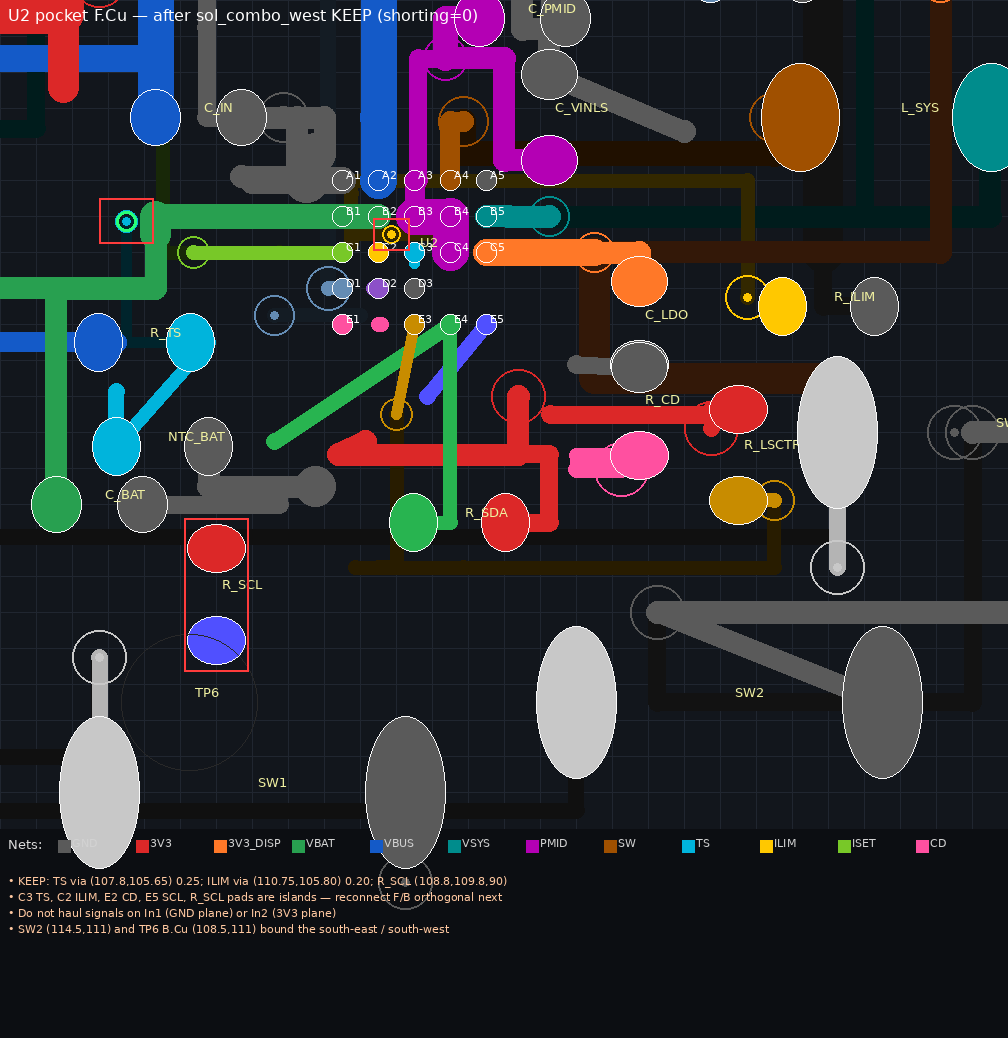
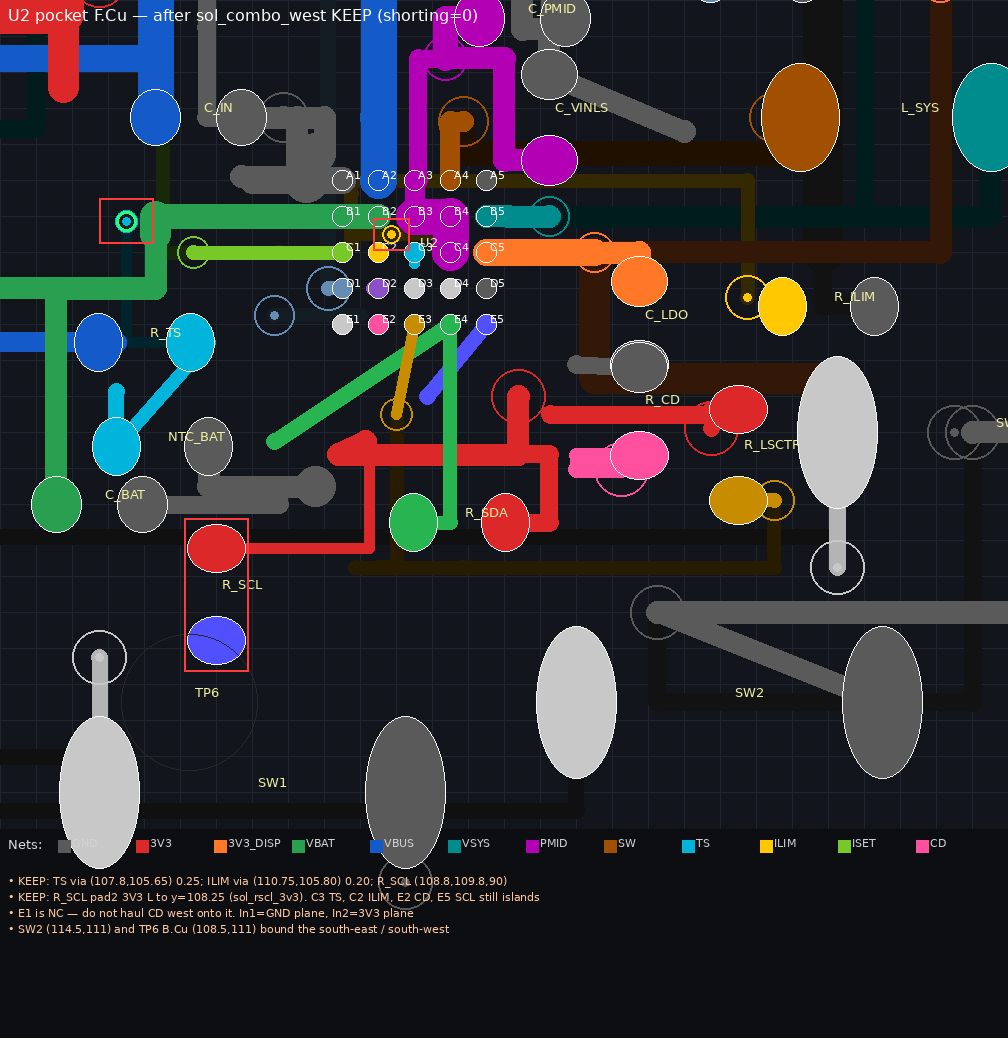
Let Sol browse the repo; KEEP R_SCL 3V3 reconnect.
gpt-6-sol opened the board itself. Its first CD haul onto NC E1 was rejected. The follow-up 3V3 L from R_SCL pad2 DRC-gates with shorting 0 and unc 16→15.

diff --git a/kicad/tools/_u2_pocket_render.py b/kicad/tools/_u2_pocket_render.py
@@ -38,8 +38,8 @@ NET_COLORS = {
 
 LATENTS = [
     "KEEP: TS via (107.8,105.65) 0.25; ILIM via (110.75,105.80) 0.20; R_SCL (108.8,109.8,90)",
-    "C3 TS, C2 ILIM, E2 CD, E5 SCL, R_SCL pads are islands — reconnect F/B orthogonal next",
-    "Do not haul signals on In1 (GND plane) or In2 (3V3 plane)",
+    "KEEP: R_SCL pad2 3V3 L to y=108.25 (sol_rscl_3v3). C3 TS, C2 ILIM, E2 CD, E5 SCL still islands",
+    "E1 is NC — do not haul CD west onto it. In1=GND plane, In2=3V3 plane",
     "SW2 (114.5,111) and TP6 B.Cu (108.5,111) bound the south-east / south-west",
 ]
 
@@ -124,18 +124,24 @@ def parse_footprints(text):
         rot = float(parts[2]) if len(parts) > 2 else 0.0
         pads = []
         for pad_m in re.finditer(
-            r'\(pad "([^"]+)" smd [^\n]*\n'
+            r'\(pad "([^"]+)" (?:smd|thru_hole) [^\n]*\n'
             r'\t\t\t\(at ([^)]+)\)\n'
             r'\t\t\t\(size ([^)]+)\)\n'
-            r'\t\t\t\(layers ([^\n]+)\)[\s\S]*?'
-            r'\(net (\d+) "([^"]+)"\)',
+            r'\t\t\t\(layers ([^\n]+)\)',
             body,
         ):
             pxy = pad_m.group(2).split()
             lx, ly = float(pxy[0]), float(pxy[1])
             sx, sy = map(float, pad_m.group(3).split()[:2])
+            tail = body[pad_m.end() : pad_m.end() + 360]
+            next_pad = tail.find("(pad ")
+            net_m = re.search(r'\(net \d+ "([^"]+)"\)', tail)
+            if net_m and (next_pad < 0 or net_m.start() < next_pad):
+                net_name = net_m.group(1)
+            else:
+                net_name = "NC"
             pads.append(
-                (pad_m.group(1), pad_m.group(6), lx, ly, sx, sy, pad_m.group(4))
+                (pad_m.group(1), net_name, lx, ly, sx, sy, pad_m.group(4))
             )
         fps.append({"ref": ref_m.group(1), "x": x, "y": y, "rot": rot, "pads": pads})
     return fps

diff --git a/kicad/tools/_sol_repo_explore.py b/kicad/tools/_sol_repo_explore.py
@@ -507,7 +507,12 @@ def compact_assistant(message: dict) -> dict:
     return kept
 
 
-def write_report(trace: list[dict], final_text: str, usage: dict | None) -> None:
+def write_report(
+    trace: list[dict],
+    final_text: str,
+    usage: dict | None,
+    report_path: Path = REPORT,
+) -> None:
     calls = []
     for row in trace:
         if row.get("role") == "tool":
@@ -526,7 +531,7 @@ def write_report(trace: list[dict], final_text: str, usage: dict | None) -> None
         + (final_text or "_(empty)_")
         + "\n"
     )
-    REPORT.write_text(body)
+    report_path.write_text(body)
     TRACE.write_text("\n".join(json.dumps(row, ensure_ascii=False) for row in trace) + "\n")
 
 
@@ -564,6 +569,12 @@ def main() -> None:
         {"role": "system", "content": SYSTEM},
         {"role": "user", "content": USER},
     ]
+    extra = Path(sys.argv[1]).read_text() if len(sys.argv) > 1 else ""
+    report_path = REPORT
+    if extra.strip():
+        messages.append({"role": "user", "content": extra.strip()})
+        report_path = ROOT / "kicad/reports/PASS_AG_SOL_EXPLORE_FOLLOWUP.md"
+        print("FOLLOWUP attached", len(extra), "chars", flush=True)
     final_text = ""
     usage = None
     TRACE.write_text("")
@@ -637,8 +648,8 @@ def main() -> None:
         break
     else:
         final_text = final_text or "(max rounds, no final text)"
-    write_report(explorer.trace, final_text, usage)
-    print("WROTE", REPORT)
+    write_report(explorer.trace, final_text, usage, report_path)
+    print("WROTE", report_path)
     print(final_text)
 
 

diff --git a/kicad/tools/_pass_ag_apply_keeps.py b/kicad/tools/_pass_ag_apply_keeps.py
@@ -9,7 +9,9 @@ from pathlib import Path
 
 sys.path.insert(0, str(Path(__file__).resolve().parent))
 from _pass_ag_sexpr_lib import (
+    add_segment,
     load,
+    netnum,
     save,
     set_fp_at,
     set_seg_ends,
@@ -60,9 +62,22 @@ if n_via == 1:
         raise SystemExit("sol_combo_west partial match")
     applied.append("sol_combo_west")
 
+has_rscl_3v3 = "(start 108.8 109.29)" in text or "(end 108.8 109.29)" in text
+if "(at 108.8 109.8 90)" in text and not has_rscl_3v3:
+    rail_3v3_net = netnum(text, "3V3")
+    text = add_segment(text, 108.8, 109.29, 110.5, 109.29, 0.12, "F.Cu", rail_3v3_net)
+    text = add_segment(text, 110.5, 109.29, 110.5, 108.25, 0.12, "F.Cu", rail_3v3_net)
+    text = add_segment(text, 110.5, 108.25, 110.16, 108.25, 0.12, "F.Cu", rail_3v3_net)
+    applied.append("sol_rscl_3v3")
+    has_rscl_3v3 = True
+
 if not applied:
     if "(at 110.75 105.8)" in text and "(at 108.8 109.8 90)" in text:
-        print("Pass-AG keeps already present: iset_via_west, ts_via_corner, sol_combo_west")
+        extra = ", sol_rscl_3v3" if has_rscl_3v3 else ""
+        print(
+            "Pass-AG keeps already present: "
+            f"iset_via_west, ts_via_corner, sol_combo_west{extra}"
+        )
         sys.exit(0)
     raise SystemExit("no Pass-AG KEEP source vias found")
 

diff --git a/kicad/tools/_pass_ag_try.py b/kicad/tools/_pass_ag_try.py
@@ -334,6 +334,15 @@ elif edit_name == "ilim_via_out":
     text = add_segment(text, 109.15, 105.85, 109.15, 105.35, 0.12, "B.Cu", ilim_net)
     text = add_segment(text, 109.15, 105.35, 110.3, 105.35, 0.12, "B.Cu", ilim_net)
 
+elif edit_name == "sol_rscl_3v3":
+    # gpt-6-sol repo-explore follow-up KEEP: reconnect R_SCL pad2 (3V3)
+    # at (108.80,109.29) to the existing 3V3 island at y=108.25.
+    # Orthogonal F.Cu only. Combined CD/E1 KEEP was rejected (E1 is NC).
+    text = add_segment(text, 108.8, 109.29, 110.5, 109.29, 0.12, "F.Cu", rail_3v3_net)
+    text = add_segment(text, 110.5, 109.29, 110.5, 108.25, 0.12, "F.Cu", rail_3v3_net)
+    text = add_segment(text, 110.5, 108.25, 110.16, 108.25, 0.12, "F.Cu", rail_3v3_net)
+    print("sol_rscl_3v3 added 3 F.Cu 3V3 segments")
+
 else:
     raise SystemExit(f"unknown edit {edit_name}")
 

diff --git a/kicad/reports/PASS_AG_SOL_EXPLORE.md b/kicad/reports/PASS_AG_SOL_EXPLORE.md
@@ -1,0 +1,101 @@
+# gpt-6-sol repo explorer (2026-09-24)
+
+Sol used workspace tools. API key is not in the repo. Coordinates below are **Sol's**, not yet a DRC KEEP unless a later section says KEEP.
+
+## Tool calls
+
+- `list_dir` `{"path": "."}`
+- `glob` `{"pattern": "**/*"}`
+- `read_file` `{"path": "cursor.md"}`
+- `read_file` `{"path": "kicad/LIVE_LOG.txt"}`
+- `read_file` `{"path": "kicad/reports/PASS_AG.md"}`
+- `read_file` `{"path": "kicad/reports/PASS_AG_SOL.md"}`
+- `read_file` `{"path": "kicad/reports/PASS_AG_SOL_VISION.md"}`
+- `list_dir` `{"path": "kicad/reports/sol_views"}`
+- `read_file` `{"path": "kicad/LIVE_LOG.txt", "offset": 780, "limit": 140}`
+- `read_image` `{"path": "kicad/reports/sol_views/u2_pocket_fcu_annotated.png"}`
+- `read_image` `{"path": "kicad/reports/sol_views/u2_pocket_bcu_annotated.png"}`
+- `read_image` `{"path": "kicad/reports/sol_views/u2_3d_close.png"}`
+- `read_image` `{"path": "kicad/reports/sol_views/board_3d_top.png"}`
+- `inspect_pcb_window` `{"x0": 107, "y0": 104.8, "x1": 114, "y1": 111}`
+- `probe_clearance` `{"kind": "segment", "net": "CD", "layer": "F.Cu", "x1": 110.2, "y1": 106.8, "x2": 110.6, "y2": 106.8, "width": 0.15}`
+- `probe_clearance` `{"kind": "segment", "net": "ILIM", "layer": "F.Cu", "x1": 110.6, "y1": 106, "x2": 110.6, "y2": 105.8, "width": 0.12}`
+- `probe_clearance` `{"kind": "segment", "net": "ILIM", "layer": "F.Cu", "x1": 110.6, "y1": 105.8, "x2": 110.75, "y2": 105.8, "width": 0.12}`
+- `probe_clearance` `{"kind": "segment", "net": "SCL", "layer": "F.Cu", "x1": 111.8, "y1": 106.8, "x2": 111.8, "y2": 107.1, "width": 0.12}`
+- `probe_clearance` `{"kind": "segment", "net": "3V3", "layer": "F.Cu", "x1": 108.8, "y1": 109.29, "x2": 109.5, "y2": 109.29, "width": 0.12}`
+- `probe_clearance` `{"kind": "segment", "net": "3V3", "layer": "F.Cu", "x1": 109.5, "y1": 109.29, "x2": 110.16, "y2": 108.25, "width": 0.12}`
+- `probe_clearance` `{"kind": "segment", "net": "SCL", "layer": "F.Cu", "x1": 108.8, "y1": 110.31, "x2": 110.8, "y2": 110.31, "width": 0.12}`
+- `probe_clearance` `{"kind": "segment", "net": "SCL", "layer": "F.Cu", "x1": 110.8, "y1": 110.31, "x2": 111.8, "y2": 107.1, "width": 0.12}`
+- `probe_clearance` `{"kind": "via", "net": "CD", "x": 110.2, "y": 106.8, "size": 0.2}`
+- `probe_clearance` `{"kind": "via", "net": "SCL", "x": 111.8, "y": 107.1, "size": 0.2}`
+- `probe_clearance` `{"kind": "via", "net": "SCL", "x": 109.55, "y": 110.31, "size": 0.3}`
+- `probe_clearance` `{"kind": "segment", "net": "SCL", "layer": "B.Cu", "x1": 111.8, "y1": 107.1, "x2": 111.8, "y2": 110.31, "width": 0.12}`
+- `probe_clearance` `{"kind": "segment", "net": "SCL", "layer": "B.Cu", "x1": 111.8, "y1": 110.31, "x2": 109.55, "y2": 110.31, "width": 0.12}`
+- `probe_clearance` `{"kind": "segment", "net": "SCL", "layer": "F.Cu", "x1": 109.55, "y1": 110.31, "x2": 108.8, "y2": 110.31, "width": 0.12}`
+- `probe_clearance` `{"kind": "segment", "net": "SCL", "layer": "B.Cu", "x1": 111.8, "y1": 107.1, "x2": 111.8, "y2": 109.15, "width": 0.12}`
+- `probe_clearance` `{"kind": "segment", "net": "SCL", "layer": "B.Cu", "x1": 111.8, "y1": 109.15, "x2": 109.55, "y2": 109.15, "width": 0.12}`
+- `probe_clearance` `{"kind": "via", "net": "3V3", "x": 109.5, "y": 109.29, "size": 0.2}`
+- `probe_clearance` `{"kind": "segment", "net": "3V3", "layer": "F.Cu", "x1": 108.8, "y1": 109.29, "x2": 109.15, "y2": 109.29, "width": 0.12}`
+- `probe_clearance` `{"kind": "via", "net": "3V3", "x": 109.15, "y": 109.29, "size": 0.2}`
+- `probe_clearance` `{"kind": "segment", "net": "CD", "layer": "F.Cu", "x1": 110.2, "y1": 106.8, "x2": 110.63, "y2": 106.8, "width": 0.15}`
+- `probe_clearance` `{"kind": "segment", "net": "SCL", "layer": "F.Cu", "x1": 111.8, "y1": 106.8, "x2": 111.8, "y2": 107.1, "width": 0.15}`
+
+## Usage
+
+{
+  "prompt_tokens": 38462,
+  "completion_tokens": 1551,
+  "total_tokens": 40013,
+  "prompt_tokens_details": {
+    "cached_tokens": 35972,
+    "cache_write_tokens": 2487
+  },
+  "completion_tokens_details": {
+    "reasoning_tokens": 516
+  },
+  "cost": 0.0,
+  "is_byok": false
+}
+
+## Sol reply
+
+Я сам открыл `cursor.md`, конец `kicad/LIVE_LOG.txt`, отчёты `PASS_AG.md`, `PASS_AG_SOL.md`, `PASS_AG_SOL_VISION.md`, четыре изображения из `kicad/reports/sol_views/` и проверил медь платы `kicad/e-ink-watch.kicad_pcb` вокруг U2. Текущее состояние по Pass‑AG: `sol_combo_west` уже применён, в отчёте для него **shorting_items=0, unconnected=16**. Это не результат проверки новых правок.
+
+### Три разных варианта F.Cu/B.Cu для оставшихся островов
+
+1. **Западный, с сохранением R_SCL.** Оставить `R_SCL (108.80,109.80,90)`; его pad1 SCL — `(108.80,110.31)`, pad2 3V3 — `(108.80,109.29)`. Сначала соединить CD E1 с существующим коротким CD-отрезком у E2, затем выводить SCL с pad1 на F.Cu к отдельному переходу F–B. Продолжение B.Cu к E5 требует нового обхода: прямой ход пересекает BTN3 и LSCTRL.
+
+2. **Восточный обход E5.** Вывести SCL от E5 на F.Cu, поставить переход F–B к востоку от E- ряда и искать обход южных трасс, не трогая U2. Проверенная точка-кандидат `(111.80,107.10)` геометрически не перекрывает соседнюю медь, но прямой B.Cu-спуск от неё до `y=110.31` **не годится**: проба нашла пересечения BTN3 и LSCTRL, а также касание перехода 3V3. Это вариант трассировки, не KEEP.
+
+3. **Поэтапный южный разнос пассивов.** Сначала закрыть CD E1–E2 и восстановить выводы ILIM C2 и TS C3; затем отдельно перекомпоновать `R_CD`/южный коридор, чтобы провести E5 к R_SCL, не пересека́я SDA и линию 3V3. Это более крупная перестройка, чем западный вариант. Конечные координаты обходов **не установлены** просмотренными файлами и изображениями; назначать их сейчас нельзя.
+
+Во всех вариантах сигналы остаются только на F.Cu/B.Cu; In1.Cu — GND, In2.Cu — 3V3. Новые переходы — только сквозные F.Cu–B.Cu. U2 не перемещать.
+
+### Один первый совмещённый KEEP-кандидат
+
+Это **точный набор для одной транзакции**, а не заявление, что он уже внесён или прошёл DRC:
+
+```text
+add_segment(net=CD, layer=F.Cu,
+            start=(110.20,106.80), end=(110.63,106.80), width=0.15)
+
+add_segment(net=SCL, layer=F.Cu,
+            start=(108.80,110.31), end=(109.55,110.31), width=0.12)
+add_via(net=SCL, at=(109.55,110.31),
+        size=0.30, drill=0.15, layers=F.Cu–B.Cu)
+
+add_segment(net=3V3, layer=F.Cu,
+            start=(108.80,109.29), end=(109.15,109.29), width=0.12)
+```
+
+`set_via_at`, `set_seg_ends` и `set_fp_at` в этой транзакции **не нужны**: исправления Pass‑AG уже находятся в осмотренной плате. Каждая указанная новая геометрия предварительно проверена `probe_clearance`: перекрытий с чужой медью не обнаружено. Переход SCL пока лишь готовит выход на B.Cu, а короткий вывод 3V3 пока не соединён с источником; называть остальные острова восстановленными нельзя. Попытка поставить переход 3V3 у `(109.15,109.29)` отвергнута пробой — он перекрывает BTN3 на B.Cu.
+
+Инструментов редактирования и запуска KiCad DRC здесь нет, поэтому **сохранять этот кандидат как подтверждённый KEEP нельзя**. После атомарного внесения нужен DRC с воротами `shorting_items=0`, нулём приоритетных силовых и PMID-pocket КЗ; при нарушении — откат всей транзакции. VBUS на док не подавать.
+
+## Geometry review (do not apply the first KEEP)
+
+- **REJECT** CD F `(110.20,106.80)–(110.63,106.80)`: U2.E1 is **NC**, CD is E2 `(110.60,106.80)` only. `inspect_pcb_window` now lists NC pads; `probe_clearance` reports OVERLAP edge −0.190 on E1.
+- **REJECT** ILIM F down to `y=105.80`: RISK edge `+0.000` vs VBAT F `y=105.60` w=0.28.
+- SCL via `(109.55,110.31)` and the short 3V3 stub were overlap-clear but did not reconnect an island.
+
+After that correction, Sol browsed again (`PASS_AG_SOL_EXPLORE_FOLLOWUP.md`) and proposed a 3V3 L from `R_SCL` pad2. Independent probe: overlap=0, tightest `+0.110` vs `R_SDA` pad1. Applied as `sol_rscl_3v3`. DRC: **`shorting_items=0`**, `unc=16→15`, power/pocket gates held.

diff --git a/kicad/reports/PASS_AG_SOL_EXPLORE_FOLLOWUP.md b/kicad/reports/PASS_AG_SOL_EXPLORE_FOLLOWUP.md
@@ -1,0 +1,91 @@
+# gpt-6-sol repo explorer (2026-09-24)
+
+Sol used workspace tools. API key is not in the repo. Coordinates below are **Sol's**, not yet a DRC KEEP unless a later section says KEEP.
+
+## Tool calls
+
+- `list_dir` `{"path": "."}`
+- `glob` `{"pattern": "kicad/reports/**/*"}`
+- `glob` `{"pattern": "**/cursor.md"}`
+- `glob` `{"pattern": "kicad/LIVE_LOG.txt"}`
+- `read_file` `{"path": "cursor.md"}`
+- `read_file` `{"path": "kicad/LIVE_LOG.txt", "limit": 200}`
+- `read_file` `{"path": "kicad/reports/PASS_AG.md"}`
+- `read_file` `{"path": "kicad/reports/PASS_AG_SOL.md"}`
+- `read_file` `{"path": "kicad/reports/PASS_AG_SOL_EXPLORE.md"}`
+- `read_file` `{"path": "kicad/reports/PASS_AG_SOL_VISION.md"}`
+- `glob` `{"pattern": "kicad/reports/sol_views/*"}`
+- `inspect_pcb_window` `{"x0": 108.1, "y0": 104.8, "x1": 114.2, "y1": 111.5}`
+- `read_image` `{"path": "kicad/reports/sol_views/u2_pocket_fcu_annotated.png"}`
+- `read_image` `{"path": "kicad/reports/sol_views/u2_pocket_bcu_annotated.png"}`
+- `read_image` `{"path": "kicad/reports/sol_views/u2_3d_close.png"}`
+- `read_file` `{"path": "kicad/LIVE_LOG.txt", "offset": 780, "limit": 140}`
+- `read_file` `{"path": "kicad/reports/_drc_passag_sol_combo_west.txt", "limit": 55}`
+- `grep` `{"path": "kicad/reports", "pattern": "E1|E2|CD.*via|sol_combo_west", "glob": "PASS_AG*", "max_matches": 35}`
+- `probe_clearance` `{"kind": "segment", "net": "CD", "layer": "F.Cu", "x1": 110.6, "y1": 106.8, "x2": 110.6, "y2": 107.15, "width": 0.12}`
+- `probe_clearance` `{"kind": "via", "net": "CD", "x": 110.6, "y": 107.15, "size": 0.3}`
+- `probe_clearance` `{"kind": "segment", "net": "CD", "layer": "B.Cu", "x1": 110.6, "y1": 107.15, "x2": 112.65, "y2": 107.15, "width": 0.12}`
+- `probe_clearance` `{"kind": "segment", "net": "CD", "layer": "B.Cu", "x1": 112.65, "y1": 107.15, "x2": 112.65, "y2": 108.41, "width": 0.12}`
+- `probe_clearance` `{"kind": "segment", "net": "CD", "layer": "B.Cu", "x1": 112.65, "y1": 108.41, "x2": 113.3, "y2": 108.41, "width": 0.12}`
+- `probe_clearance` `{"kind": "via", "net": "CD", "x": 110.6, "y": 106.8, "size": 0.2}`
+- `probe_clearance` `{"kind": "segment", "net": "CD", "layer": "B.Cu", "x1": 110.6, "y1": 106.8, "x2": 112.65, "y2": 106.8, "width": 0.12}`
+- `probe_clearance` `{"kind": "segment", "net": "CD", "layer": "B.Cu", "x1": 112.65, "y1": 106.8, "x2": 112.65, "y2": 108.41, "width": 0.12}`
+- `probe_clearance` `{"kind": "segment", "net": "CD", "layer": "B.Cu", "x1": 112.65, "y1": 108.41, "x2": 113.3, "y2": 108.41, "width": 0.12}`
+- `probe_clearance` `{"kind": "segment", "net": "CD", "layer": "F.Cu", "x1": 110.6, "y1": 106.8, "x2": 110.63, "y2": 106.8, "width": 0.15}`
+- `probe_clearance` `{"kind": "segment", "net": "3V3", "layer": "F.Cu", "x1": 108.8, "y1": 109.29, "x2": 110.16, "y2": 109.29, "width": 0.12}`
+- `probe_clearance` `{"kind": "segment", "net": "3V3", "layer": "F.Cu", "x1": 110.16, "y1": 109.29, "x2": 110.16, "y2": 108.25, "width": 0.12}`
+- `probe_clearance` `{"kind": "segment", "net": "3V3", "layer": "F.Cu", "x1": 108.8, "y1": 109.29, "x2": 110.16, "y2": 109.29, "width": 0.15}`
+- `probe_clearance` `{"kind": "segment", "net": "3V3", "layer": "F.Cu", "x1": 110.16, "y1": 109.29, "x2": 110.16, "y2": 108.25, "width": 0.15}`
+- `grep` `{"path": "kicad/e-ink-watch.kicad_pcb", "pattern": "\\(clearance |\\(via_min_size|\\(min_through_hole_diameter", "max_matches": 25}`
+- `probe_clearance` `{"kind": "segment", "net": "3V3", "layer": "F.Cu", "x1": 108.8, "y1": 109.29, "x2": 110.5, "y2": 109.29, "width": 0.12}`
+- `probe_clearance` `{"kind": "segment", "net": "3V3", "layer": "F.Cu", "x1": 110.5, "y1": 109.29, "x2": 110.5, "y2": 108.25, "width": 0.12}`
+- `probe_clearance` `{"kind": "segment", "net": "3V3", "layer": "F.Cu", "x1": 110.5, "y1": 108.25, "x2": 110.16, "y2": 108.25, "width": 0.12}`
+- `probe_clearance` `{"kind": "segment", "net": "3V3", "layer": "F.Cu", "x1": 108.8, "y1": 109.29, "x2": 110.45, "y2": 109.29, "width": 0.12}`
+- `probe_clearance` `{"kind": "segment", "net": "3V3", "layer": "F.Cu", "x1": 110.45, "y1": 109.29, "x2": 110.45, "y2": 108.25, "width": 0.12}`
+- `probe_clearance` `{"kind": "segment", "net": "3V3", "layer": "F.Cu", "x1": 110.45, "y1": 108.25, "x2": 110.16, "y2": 108.25, "width": 0.12}`
+
+## Usage
+
+{
+  "prompt_tokens": 43383,
+  "completion_tokens": 1507,
+  "total_tokens": 44890,
+  "prompt_tokens_details": {
+    "cached_tokens": 40188,
+    "cache_write_tokens": 3192
+  },
+  "completion_tokens_details": {
+    "reasoning_tokens": 478
+  },
+  "cost": 0.0,
+  "is_byok": false
+}
+
+## Sol reply
+
+Я повторно осмотрел медь `kicad/e-ink-watch.kicad_pcb` вокруг U2 с учётом NC-площадок. **U2.E1 `(110.20,106.80)` — NC; CD находится на E2 `(110.60,106.80)`**. Западный CD-отрезок из прошлого предложения исключён. Также не предлагаю спуск ILIM по F.Cu к `y=105.80` рядом с VBAT.
+
+Сам открыл `cursor.md`, `kicad/LIVE_LOG.txt` (включая конец), отчёты `PASS_AG.md`, `PASS_AG_SOL.md`, `PASS_AG_SOL_VISION.md`, `PASS_AG_SOL_EXPLORE.md`, отчёт DRC для `sol_combo_west`, аннотированные виды F.Cu/B.Cu и 3D-внутренность U2. Проверил окно меди инструментом `inspect_pcb_window`. Отчёт Pass-AG фиксирует **shorting_items=0, unconnected=16** *до новых изменений*.
+
+### Три различных ортогональных варианта F.Cu/B.Cu
+
+1. **Сначала питание западного R_SCL.** Не двигать `R_SCL`; соединить его pad2 3V3 `(108.80,109.29)` по F.Cu обходом с существующей дорожкой 3V3 на `y=108.25`. E2 и E5 пока оставить островами.
+2. **CD через B.Cu.** Выходить **только из E2**, поставить сквозной переход F.Cu–B.Cu и обойти на B.Cu к существующему CD-via `(113.30,108.41)`. Прямой переход-кандидат `(110.60,107.15)` Ø0.30 отвергнут пробой: перекрытие SDA, край −0.089 мм. Переход непосредственно в E2 Ø0.20 имеет рискованный зазор +0.049 мм до IPRETERM на B.Cu; в KEEP его не включаю.
+3. **Поэтапная перекомпоновка южного коридора для SCL.** Сохранить выход E5 на F.Cu, освободить коридор у `R_CD`, затем провести SCL по B.Cu к pad1 `R_SCL (108.80,110.31)` через отдельные сквозные переходы. Прямой B.Cu-спуск от E5 пересекает существующие южные сети; координаты безопасных переходов пока не установлены.
+
+Во всех вариантах U2 остаётся на месте, сигналы не идут по In1.Cu/In2.Cu.
+
+### Один новый первый совмещённый KEEP-кандидат
+
+Выбираю вариант 1: **одной транзакцией три новых ортогональных сегмента**, соединяющих *реальный остров* `R_SCL.2` с существующей сетью 3V3. `set_via_at`, `set_seg_ends`, `set_fp_at` и `add_via` в этой транзакции **не нужны**.
+
+```text
+add_segment(net=3V3, layer=F.Cu,
+            start=(108.80,109.29), end=(110.50,109.29), width=0.12)
+add_segment(net=3V3, layer=F.Cu,
+            start=(110.50,109.29), end=(110.50,108.25), width=0.12)
+add_segment(net=3V3, layer=F.Cu,
+            start=(110.50,108.25), end=(110.16,108.25), width=0.12)
+```
+
+Начало — открытая площадка `R_SCL.2`; конец `(110.16,108.25)` лежит на осмотренном существующем сегменте 3V3 `(110.16,108.25)–(112.16,108.25)`. Точка поворота с `x=110.50` — **мой проектный кандидат, не координата из открытого файла или изображения**. Все три сегмента отдельно проверены `probe_clearance`: перекрытий с чужой медью проба не показала; наименьший выданный зазор — **+0.110 мм** у SDA-площадки для вертикального сегмента. Это ещё **не подтверждённый DRC KEEP**: после атомарного внесения необходимы проверка правил зазоров и DRC с `shorting_items=0`, нулём приоритетных силовых и PMID-pocket КЗ; при нарушении — откатить транзакцию. VBUS на док не подавать.

diff --git a/kicad/reports/PASS_AG.md b/kicad/reports/PASS_AG.md
@@ -2,12 +2,12 @@
 
 **Board:** `e-ink-watch.kicad_pcb`  
 **From:** Pass-AF (`shorting=0`, `unc=10`)  
-**To:** Pass-AG (`shorting=0`, `unc=16` after `sol_combo_west`)  
+**To:** Pass-AG (`shorting=0`, `unc=15` after `sol_rscl_3v3`)  
 **Tool:** `kicad-cli 9.0.9 pcb drc` + in-place sexpr edits
 
 ## Verdict
 
-**Partial.** Hard gates held. Combined Sol vision KEEP cleared the four U2 latents in one save. Unconnected 11→16 (islands on C2/C3/E2/E5/`R_SCL`). Reconnect next. Not production-ready.
+**Partial.** Hard gates held. Combined Sol vision KEEP cleared the four U2 latents in one save. Sol then browsed the repo itself; `sol_rscl_3v3` reconnected `R_SCL` pad2 to 3V3 (`unc` 16→15). C2/C3/E2/E5 still islands. Not production-ready.
 
 ## KEEP (DRC-gated)
 
@@ -16,6 +16,7 @@
 | `iset_via_west` in-place | Via `(109.5, 106.0)` 0.5/0.25 → `(108.55, 106.0)` 0.35/0.15; F.Cu stub extended. `shorting=0`, `unc=10` |
 | `ts_via_corner` in-place | TS via `(110.4, 105.65)` 0.35/0.15 → `(107.8, 105.65)` 0.25/0.15 on existing B.Cu elbow. `shorting=0`, `unc=11`. Sol's `(108.00, 105.65)` `0.35` overlaps VBAT `@x=108.12` and ISET B `@x=108.20`. |
 | `sol_combo_west` in-place | ILIM via `(111.45, 105.8)` 0.5 → `(110.75, 105.8)` 0.20/0.15; ILIM F stub on C2; CD E-row + vertical retracted; TS F onto C3 stub; `R_SCL` `(108.8, 109.8, 90)`. `shorting=0`, `unc=16`. |
+| `sol_rscl_3v3` add F.Cu | Orthogonal 3V3 from `R_SCL` pad2 `(108.80, 109.29)` → `(110.50, 109.29)` → `(110.50, 108.25)` → existing island `(110.16, 108.25)`. Sol proposed after browsing the repo; first CD/E1 KEEP rejected. `shorting=0`, `unc=16→15`. |
 
 Replay: `python3 tools/_pass_ag_apply_keeps.py` on the Pass-AF board.
 
@@ -35,20 +36,20 @@ In-place `(at …)` / endpoint edits keep KiCad item order. That avoided the Pas
 
 The four U2 latents from Pass-AG are **geometrically cleared** by `sol_combo_west` (DRC `shorting=0` after the same save). Remaining work is reconnect, not overlap.
 
-## Remaining unc=16
+## Remaining unc=15
 
-Previous islands plus C2 ILIM, C3 TS, E2 CD, E5 SCL, `R_SCL` pads (moved west), leftover 3V3 stub at `(112.51, 107.8)`.
+Previous islands plus C2 ILIM, C3 TS, E2 CD, E5 SCL, leftover 3V3 stub at `(112.51, 107.8)`, west 3V3, west 3V3_DISP, SDA to U1, PMIC_INT, GND A5–D5.
 
 ## Next
 
-Orthogonal F/B reconnect of TS C3, ILIM C2, CD E2, SCL E5→`R_SCL` pad1, 3V3→`R_SCL` pad2. No In1/In2. No new overlap. Send Sol the after-KEEP pocket images for stub coordinates.
+Orthogonal F/B reconnect of TS C3, ILIM C2, CD E2 (east/south toward CD via `(113.30, 108.41)`, **not** west onto NC E1), SCL E5→`R_SCL` pad1. No In1/In2. No new overlap.
 
-gpt-6-sol vision (2026-09-24): three variants after seeing annotated F/B + 3D. Combined KEEP applied with two corrections: via `(110.75, 105.80)` `0.20` not `(110.80, 0.25)` (PMID F clip); CD vertical `x=112.8` retracted because it crossed 3V3 `y=107.8`.
+gpt-6-sol now browses with `tools/_sol_repo_explore.py`. NC pads must show in `inspect_pcb_window` / `probe_clearance` or it will haul CD onto E1.
 
 ## Archives
 
 - `tools/_pass_ag_sexpr_lib.py`, `_pass_ag_gate.py`, `_pass_ag_try.py`, `_pass_ag_apply_keeps.py`, `_pass_ag_run.sh`
-- `tools/_u2_pocket_render.py`, `_sol_vision_ask.py`
+- `tools/_u2_pocket_render.py`, `_sol_vision_ask.py`, `_sol_repo_explore.py`, `_sol_board_query.py`
 - `reports/sol_views/`
-- `reports/PASS_AG_SOL.md`, `reports/PASS_AG_SOL_VISION.md`
+- `reports/PASS_AG_SOL.md`, `reports/PASS_AG_SOL_VISION.md`, `reports/PASS_AG_SOL_EXPLORE.md`, `reports/PASS_AG_SOL_EXPLORE_FOLLOWUP.md`
 - `LIVE_LOG.txt`

diff --git a/cursor.md b/cursor.md
@@ -27,6 +27,10 @@ Do not skip these on the next PCB pass.
 - ILIM via-only slide to `(110.75, 105.80)` `0.20` was overlap-clear of PMID/VBAT but DRC still reported CD↔3V3 and CD↔SCL. File length did not change. Moving the ILIM via promotes the CD E-row latents; clear CD (and R_SCL pad-on-SDA) in the **same** save as the ILIM via.
 - Send Sol annotated F.Cu/B.Cu maps plus KiCad 3D of U2. If it is wrong, reply with the overlap numbers and new pictures; do not apply blindly. Vision KEEP `R_SCL (108.8, 109.8, 90)` was F.Cu-clear (TP6 pad is **B.Cu** only). Its ILIM via `0.25@(110.80,105.80)` still clipped PMID F (edge −0.042) — use `0.20@(110.75,105.80)`. CD vertical `x=112.8` crosses 3V3 F `y=107.8`; retract it with the E-row.
 - Combined KEEP `sol_combo_west`: ILIM via + ILIM F stub + CD E-row + CD vertical + TS F onto C3 + `R_SCL` rotate-move, one save. `shorting=0`, unc 11→16.
+- gpt-6-sol Chat Completions tool loop works on Experiential (`list_dir` / `read_file` / `grep` / `glob` / `read_image` / `inspect_pcb_window` / `probe_clearance`). Do not replace it with a pasted coordinate brief. Deny `*explabs_key*` / `.env`. Round BGA pads as circles in the probe (AABB false-overlaps VBAT B2).
+- `inspect_pcb_window` must list **NC** pads. Sol's first self-browse KEEP hauled CD west onto U2.E1 `(110.20, 106.80)` which has no net. CD is E2 only. Reconnect CD toward via `(113.30, 108.41)`, never onto E1.
+- ILIM F down to `y=105.80` has probe RISK edge `+0.000` vs VBAT F `y=105.60` w=0.28. Do not drop ILIM onto that street.
+- After a correction round, Sol's 3V3 L from `R_SCL` pad2 `(108.80, 109.29)` → `(110.50, 109.29)` → `(110.50, 108.25)` → island `(110.16, 108.25)` DRC-gated as `sol_rscl_3v3`: `shorting=0`, unc 16→15. Add-segment insert still needs the full gate (item-order flake).
 
 ## Hard gates (do not relax)
 
